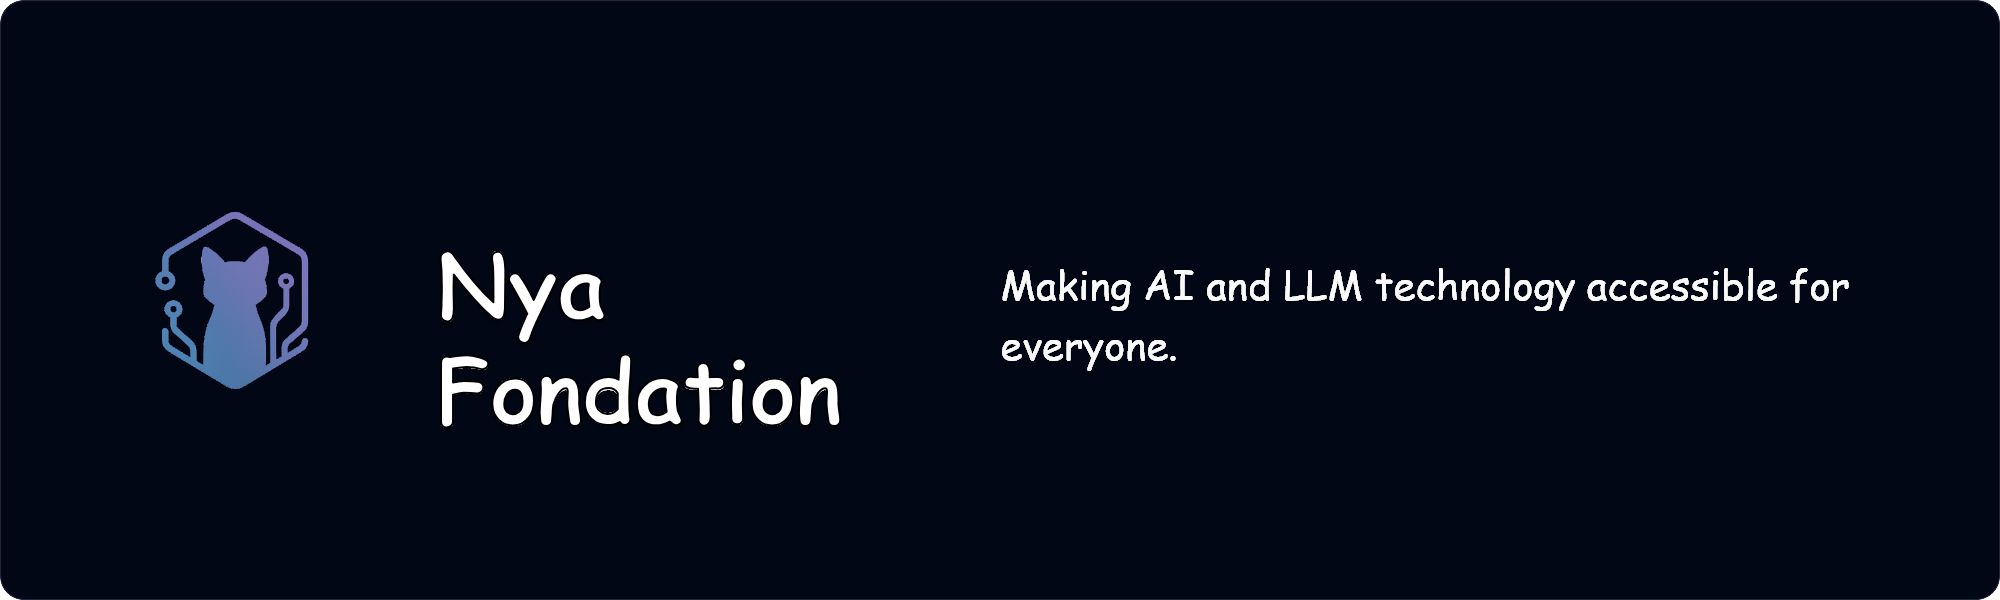
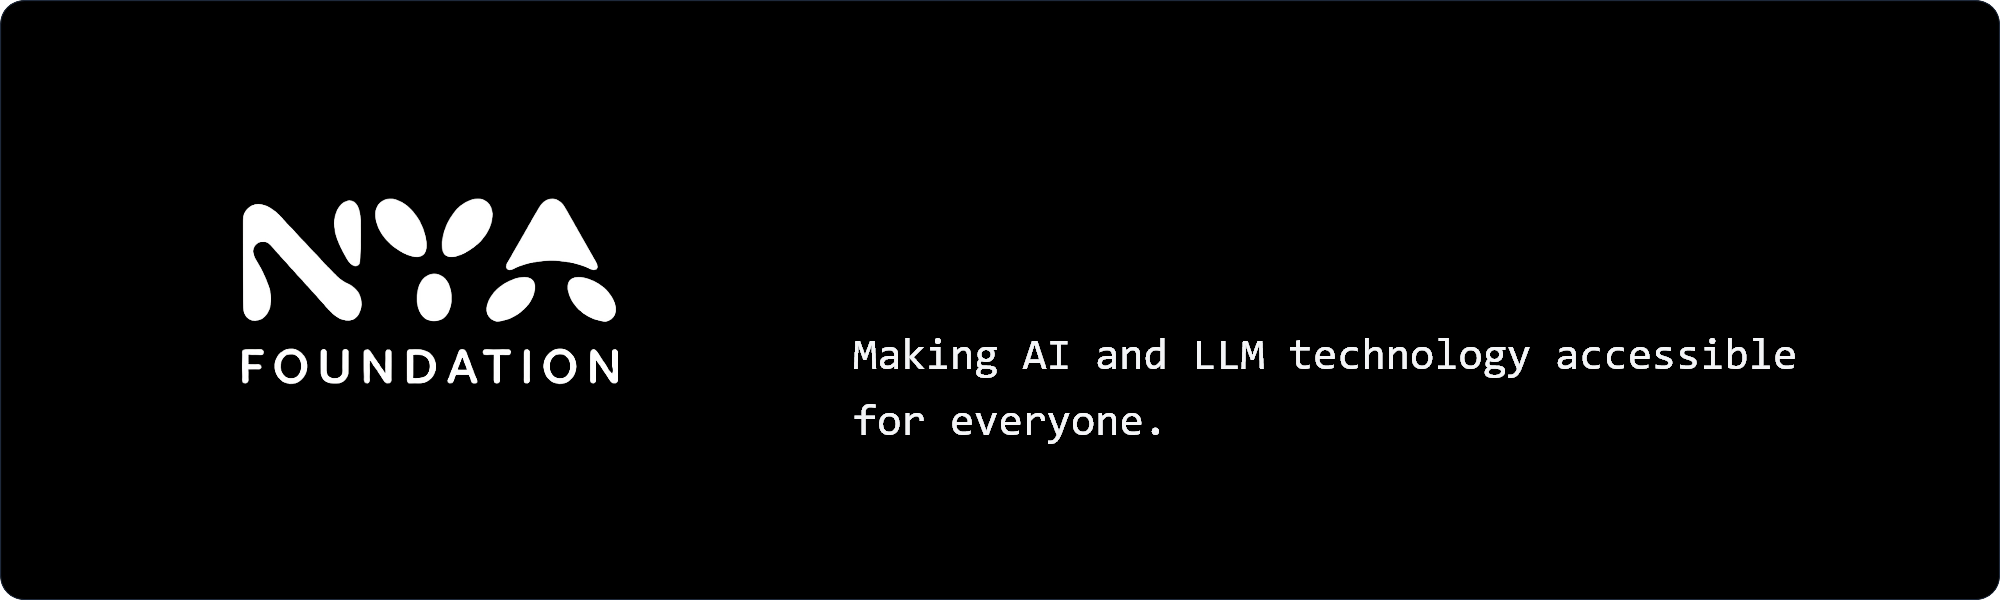
docs: Nya Foundation rebranding

Changed region(s): [[0.062, 0.33, 0.589, 0.75], [0.403, 0.57, 0.899, 0.63], [0.496, 0.45, 0.93, 0.51]]

diff --git a/profile/README.md b/profile/README.md
@@ -1,13 +1,12 @@
-<div align="center">
+<h1 align="center">
     <p></p>
     <img
         src="https://raw.githubusercontent.com/Nya-Foundation/.github/main/assets/banner.png"
         alt="Nya Foundation"
         width="80%"
     />
-    <h3>Making AI and LLM technology accessible for everyone.</h3>
     <p></p>
-</div>
+</h1>
 
 <p align="center">
 <a href="https://github.com/Nya-Foundation/NyaProxy">
@@ -23,7 +22,7 @@
     <img src="https://raw.githubusercontent.com/Nya-Foundation/.github/main/assets/nekoconf.png" alt="NekoConf" width="15%" />
 </a> 
 <a href="https://github.com/Nya-Foundation/NekoCanvas">
-    <img src="https://raw.githubusercontent.com/Nya-Foundation/.github/main/assets/semantic-release" alt="NekoCanvas" width="15%" />
+    <img src="https://raw.githubusercontent.com/Nya-Foundation/.github/main/assets/neko-canvas.png" alt="NekoCanvas" width="15%" />
 </a> 
 </p>
 
